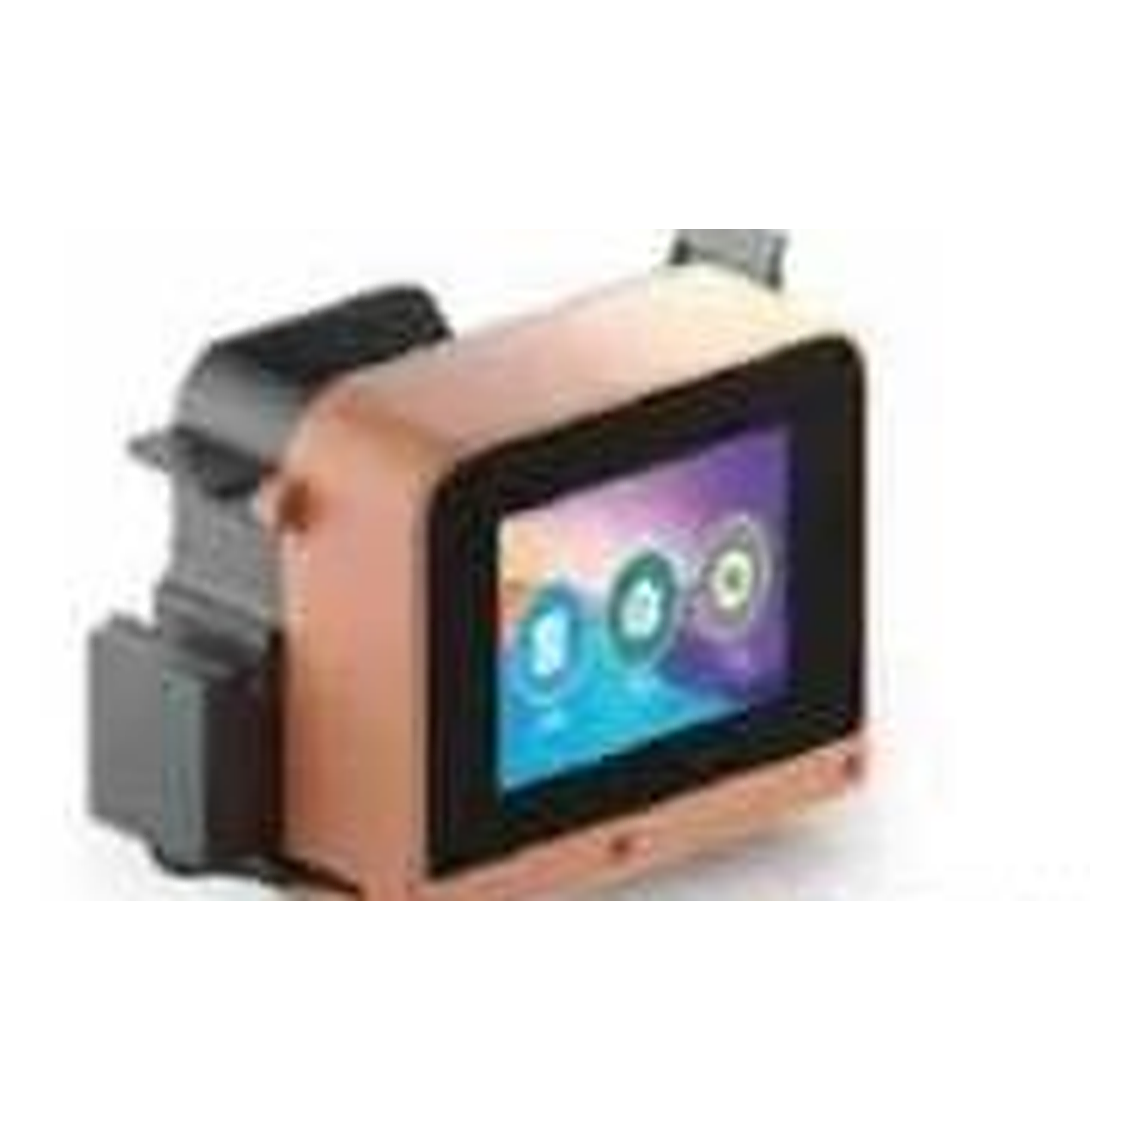
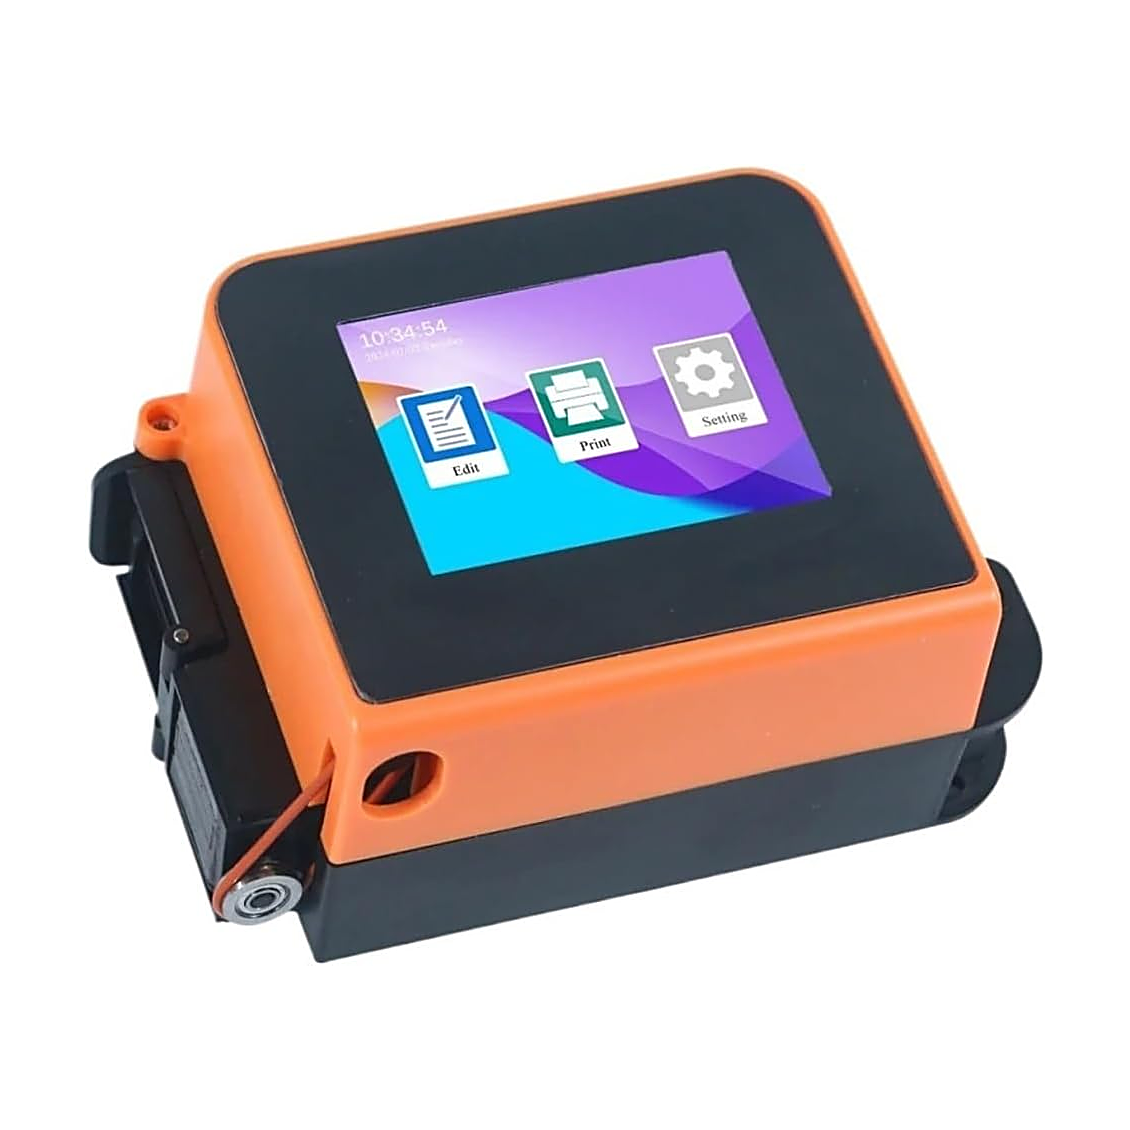
Top up galleries to 6 images: FH-500A, MY-300 II, FH-M3S, T-S, A9, P500, T10-Plus, T10 Plus-2, F-11; replace FH-M3S and T-S heroes; remove laser section from supplier request

diff --git a/src/data/products.ts b/src/data/products.ts
@@ -172,8 +172,8 @@ export const products: Product[] = [
   {
     slug: 'a9-handheld-inkjet-printer', model: 'A9/A9S', name: 'A9 Handheld Thermal Inkjet Printer', type: 'Handheld thermal inkjet printer', category: 'inkjet-printers', parentCategory: 'inkjet-printers', subcategory: 'inkjet', useCategory: 'inkjet-standalone', price: 255, badge: '5-inch screen',
     hero: '/assets/products/a9-handheld-inkjet-printer/hero.png',
-    gallery: ['/assets/products/a9-handheld-inkjet-printer/hero.png', '/assets/products/a9-handheld-inkjet-printer/detail-1.png', '/assets/products/a9-handheld-inkjet-printer/detail-2.png', '/assets/products/a9-handheld-inkjet-printer/detail-3.png', '/assets/products/print-samples/tij-carton-print.png'],
-    detailGallery: ['/assets/products/a9-handheld-inkjet-printer/hero.png', '/assets/products/a9-handheld-inkjet-printer/detail-1.png', '/assets/products/a9-handheld-inkjet-printer/detail-2.png', '/assets/products/a9-handheld-inkjet-printer/detail-3.png', '/assets/products/print-samples/tij-carton-print.png'],
+    gallery: ['/assets/products/a9-handheld-inkjet-printer/hero.png', '/assets/products/a9-handheld-inkjet-printer/detail-1.png', '/assets/products/a9-handheld-inkjet-printer/detail-2.png', '/assets/products/a9-handheld-inkjet-printer/detail-3.png', '/assets/products/a9-handheld-inkjet-printer/detail-4.png', '/assets/products/print-samples/tij-carton-print.png'],
+    detailGallery: ['/assets/products/a9-handheld-inkjet-printer/hero.png', '/assets/products/a9-handheld-inkjet-printer/detail-1.png', '/assets/products/a9-handheld-inkjet-printer/detail-2.png', '/assets/products/a9-handheld-inkjet-printer/detail-3.png', '/assets/products/a9-handheld-inkjet-printer/detail-4.png', '/assets/products/print-samples/tij-carton-print.png'],
     description: 'A handheld thermal inkjet printer with a large 5-inch touchscreen and ABS shell for date, batch, barcode and QR coding on cartons, packaging and industrial parts.',
     longDescription: 'The A9 is a handheld thermal inkjet (TIJ) printer with a large 5-inch touchscreen and ABS shell. It prints dates, batch numbers, barcodes and QR codes on cartons, packaging and industrial parts, using quick-dry TIJ cartridges. One ink cartridge is included per printer.',
     applications: 'Cartons · Plastic · Metal · Glass · Wood · Packaging bags',
@@ -183,8 +183,8 @@ export const products: Product[] = [
   {
     slug: 'p500-handheld-inkjet-printer', model: 'P500/P500S', name: 'P500 Two-Head Handheld Thermal Inkjet Printer', type: 'Two-head handheld thermal inkjet printer', category: 'inkjet-printers', parentCategory: 'inkjet-printers', subcategory: 'inkjet', useCategory: 'inkjet-standalone', price: 337, badge: 'Two heads',
     hero: '/assets/products/p500-handheld-inkjet-printer/hero.png',
-    gallery: ['/assets/products/p500-handheld-inkjet-printer/hero.png', '/assets/products/p500-handheld-inkjet-printer/detail-1.png', '/assets/products/p500-handheld-inkjet-printer/detail-3.png', '/assets/products/p500-handheld-inkjet-printer/detail-4.png', '/assets/products/print-samples/tij-carton-print.png'],
-    detailGallery: ['/assets/products/p500-handheld-inkjet-printer/hero.png', '/assets/products/p500-handheld-inkjet-printer/detail-1.png', '/assets/products/p500-handheld-inkjet-printer/detail-3.png', '/assets/products/p500-handheld-inkjet-printer/detail-4.png', '/assets/products/print-samples/tij-carton-print.png'],
+    gallery: ['/assets/products/p500-handheld-inkjet-printer/hero.png', '/assets/products/p500-handheld-inkjet-printer/detail-1.png', '/assets/products/p500-handheld-inkjet-printer/detail-2.png', '/assets/products/p500-handheld-inkjet-printer/detail-3.png', '/assets/products/p500-handheld-inkjet-printer/detail-4.png', '/assets/products/print-samples/tij-carton-print.png'],
+    detailGallery: ['/assets/products/p500-handheld-inkjet-printer/hero.png', '/assets/products/p500-handheld-inkjet-printer/detail-1.png', '/assets/products/p500-handheld-inkjet-printer/detail-2.png', '/assets/products/p500-handheld-inkjet-printer/detail-3.png', '/assets/products/p500-handheld-inkjet-printer/detail-4.png', '/assets/products/print-samples/tij-carton-print.png'],
     description: 'A two-head handheld thermal inkjet printer that prints up to 25.4 mm high in one pass — large dates, batch codes, logos and barcodes on cartons and large packaging.',
     longDescription: 'The P500 is a two-head handheld thermal inkjet (TIJ) printer that prints up to 25.4 mm high in a single pass, for large dates, batch codes, logos and barcodes on cartons and large packaging. Two ink cartridges included — one per print head.',
     applications: 'Cartons · Large packaging · Wood · Metal · Plastic',
@@ -374,8 +374,8 @@ export const products: Product[] = [
   {
     slug: 't10-plus-online-inkjet-printer', model: 'T10-Plus/T10S-Plus', name: 'T10-Plus Online Thermal Inkjet Printer', type: 'Online thermal inkjet printer', category: 'inkjet-printers', parentCategory: 'inkjet-printers', subcategory: 'inkjet', useCategory: 'inkjet-packaging-line', price: 250, badge: 'Metal cover · 7-inch',
     hero: '/assets/products/t10-plus-online-inkjet-printer/hero.png',
-    gallery: ['/assets/products/t10-plus-online-inkjet-printer/hero.png', '/assets/products/print-samples/tij-cartridge-42ml.png', '/assets/products/print-samples/tij-carton-print.png', '/assets/products/t10-plus-online-inkjet-printer/detail-2.png', '/assets/products/t10-plus-online-inkjet-printer/detail-3.png'],
-    detailGallery: ['/assets/products/t10-plus-online-inkjet-printer/hero.png', '/assets/products/print-samples/tij-cartridge-42ml.png', '/assets/products/print-samples/tij-carton-print.png', '/assets/products/t10-plus-online-inkjet-printer/detail-2.png', '/assets/products/t10-plus-online-inkjet-printer/detail-3.png'],
+    gallery: ['/assets/products/t10-plus-online-inkjet-printer/hero.png', '/assets/products/print-samples/tij-cartridge-42ml.png', '/assets/products/print-samples/tij-carton-print.png', '/assets/products/t10-plus-online-inkjet-printer/detail-2.png', '/assets/products/t10-plus-online-inkjet-printer/detail-3.png', '/assets/products/t10-plus-online-inkjet-printer/detail-4.png'],
+    detailGallery: ['/assets/products/t10-plus-online-inkjet-printer/hero.png', '/assets/products/print-samples/tij-cartridge-42ml.png', '/assets/products/print-samples/tij-carton-print.png', '/assets/products/t10-plus-online-inkjet-printer/detail-2.png', '/assets/products/t10-plus-online-inkjet-printer/detail-3.png', '/assets/products/t10-plus-online-inkjet-printer/detail-4.png'],
     description: 'An online thermal inkjet printer with a metal cover and a large 7-inch touchscreen for production lines — date, batch, barcode and QR coding triggered by photoelectric sensor as products pass.',
     longDescription: 'The T10-Plus is an online thermal inkjet (TIJ) printer with a metal cover and a large 7-inch touchscreen for production lines. Compared with the T10-1, which has an aluminum cover, the T10-Plus uses a heavier metal cover. A photoelectric sensor triggers date, batch, barcode and QR coding as products pass under the print head. One ink cartridge is included per printer.',
     applications: 'Production lines · Cartons · Bottles · Pipes · Cables · Packaging lines',
@@ -385,8 +385,8 @@ export const products: Product[] = [
   {
     slug: 't10-plus-2-online-inkjet-printer', model: 'T10 Plus-2/T10S Plus-2', name: 'T10 Plus-2 Two-Head Online Thermal Inkjet Printer', type: 'Two-head online thermal inkjet printer', category: 'inkjet-printers', parentCategory: 'inkjet-printers', subcategory: 'inkjet', useCategory: 'inkjet-packaging-line', price: 430, badge: 'Two heads · Metal cover',
     hero: '/assets/products/t10-plus-2-online-inkjet-printer/hero.png',
-    gallery: ['/assets/products/t10-plus-2-online-inkjet-printer/hero.png', '/assets/products/t10-plus-2-online-inkjet-printer/detail-1.png', '/assets/products/print-samples/tij-cartridge-42ml.png', '/assets/products/print-samples/tij-carton-print.png', '/assets/products/t10-plus-2-online-inkjet-printer/detail-2.png'],
-    detailGallery: ['/assets/products/t10-plus-2-online-inkjet-printer/hero.png', '/assets/products/t10-plus-2-online-inkjet-printer/detail-1.png', '/assets/products/print-samples/tij-cartridge-42ml.png', '/assets/products/print-samples/tij-carton-print.png', '/assets/products/t10-plus-2-online-inkjet-printer/detail-2.png'],
+    gallery: ['/assets/products/t10-plus-2-online-inkjet-printer/hero.png', '/assets/products/t10-plus-2-online-inkjet-printer/detail-1.png', '/assets/products/print-samples/tij-cartridge-42ml.png', '/assets/products/print-samples/tij-carton-print.png', '/assets/products/t10-plus-2-online-inkjet-printer/detail-2.png', '/assets/products/t10-plus-2-online-inkjet-printer/detail-3.png'],
+    detailGallery: ['/assets/products/t10-plus-2-online-inkjet-printer/hero.png', '/assets/products/t10-plus-2-online-inkjet-printer/detail-1.png', '/assets/products/print-samples/tij-cartridge-42ml.png', '/assets/products/print-samples/tij-carton-print.png', '/assets/products/t10-plus-2-online-inkjet-printer/detail-2.png', '/assets/products/t10-plus-2-online-inkjet-printer/detail-3.png'],
     description: 'A two-head online thermal inkjet printer with a metal cover and a 7-inch touchscreen — up to 25.4 mm print height in one pass on production lines.',
     longDescription: 'The T10 Plus-2 is a two-head online thermal inkjet (TIJ) printer with a metal cover and a 7-inch touchscreen. Two print heads cover up to 25.4 mm print height in one pass on production lines. Compared with the T10-2, which has an aluminum cover, the T10 Plus-2 uses a heavier metal cover. Two ink cartridges included — one per print head.',
     applications: 'Production lines · Cartons · Large packaging · Bottles · Pipes',
@@ -396,8 +396,8 @@ export const products: Product[] = [
   {
     slug: 'f-11-feeding-inkjet-printer', model: 'F-11/F-11S', name: 'F-11 Feeding Inkjet Printer', type: 'Feeding thermal inkjet printer', category: 'inkjet-printers', parentCategory: 'inkjet-printers', subcategory: 'inkjet', useCategory: 'inkjet-packaging-line', price: 605, badge: 'With feeder',
     hero: '/assets/products/f-11-feeding-inkjet-printer/hero.png',
-    gallery: ['/assets/products/f-11-feeding-inkjet-printer/hero.png', '/assets/products/f-11-feeding-inkjet-printer/detail-1.png', '/assets/products/print-samples/tij-cartridge-42ml.png', '/assets/products/print-samples/tij-carton-print.png', '/assets/products/f-11-feeding-inkjet-printer/detail-2.png'],
-    detailGallery: ['/assets/products/f-11-feeding-inkjet-printer/hero.png', '/assets/products/f-11-feeding-inkjet-printer/detail-1.png', '/assets/products/print-samples/tij-cartridge-42ml.png', '/assets/products/print-samples/tij-carton-print.png', '/assets/products/f-11-feeding-inkjet-printer/detail-2.png'],
+    gallery: ['/assets/products/f-11-feeding-inkjet-printer/hero.png', '/assets/products/f-11-feeding-inkjet-printer/detail-1.png', '/assets/products/print-samples/tij-cartridge-42ml.png', '/assets/products/print-samples/tij-carton-print.png', '/assets/products/f-11-feeding-inkjet-printer/detail-2.png', '/assets/products/f-11-feeding-inkjet-printer/detail-3.png'],
+    detailGallery: ['/assets/products/f-11-feeding-inkjet-printer/hero.png', '/assets/products/f-11-feeding-inkjet-printer/detail-1.png', '/assets/products/print-samples/tij-cartridge-42ml.png', '/assets/products/print-samples/tij-carton-print.png', '/assets/products/f-11-feeding-inkjet-printer/detail-2.png', '/assets/products/f-11-feeding-inkjet-printer/detail-3.png'],
     description: 'A feeding inkjet printer — an integrated feeder moves flat products under the print head for automatic date, batch, barcode and QR coding on small production lines.',
     longDescription: 'The F-11 is a feeding thermal inkjet (TIJ) printer with an integrated feeder and a 4.3-inch touchscreen. The feeder moves flat products under the print head for automatic date, batch, barcode and QR coding, without a separate conveyor. One ink cartridge is included per printer.',
     applications: 'Small production lines · Cartons · Labels · Bags · Flat products',
@@ -407,8 +407,8 @@ export const products: Product[] = [
   {
     slug: 'my-300-ii', model: 'MY-300 II', name: 'MY-300 II Steel Wheel Carton Printer', type: 'Steel wheel carton printer', category: 'ink-wheel-coders', parentCategory: 'ink-wheel-coders', subcategory: 'ink roller', useCategory: 'ink-roller-standalone', price: 507, badge: 'Auto-feed cartons',
     hero: '/assets/products/my-300-ii/hero.png',
-    gallery: ['/assets/products/my-300-ii/hero.png', '/assets/products/my-300-ii/detail-1.png', '/assets/products/print-samples/ink-roll-carton-print.png'],
-    detailGallery: ['/assets/products/my-300-ii/hero.png', '/assets/products/my-300-ii/detail-1.png', '/assets/products/print-samples/ink-roll-carton-print.png'],
+    gallery: ['/assets/products/my-300-ii/hero.png', '/assets/products/my-300-ii/detail-1.png', '/assets/products/print-samples/ink-roll-carton-print.png', '/assets/products/my-300-ii/detail-2.png', '/assets/products/my-300-ii/detail-3.png', '/assets/products/my-300-ii/detail-4.png'],
+    detailGallery: ['/assets/products/my-300-ii/hero.png', '/assets/products/my-300-ii/detail-1.png', '/assets/products/print-samples/ink-roll-carton-print.png', '/assets/products/my-300-ii/detail-2.png', '/assets/products/my-300-ii/detail-3.png', '/assets/products/my-300-ii/detail-4.png'],
     description: 'An auto-feed steel wheel printer for cartons and cards — it feeds a stack of flat cartons and stamps dates and batch codes with a steel print wheel, using a solid ink roll or dry embossing.',
     longDescription: 'The MY-300 II is an automatic steel wheel printer for flat cartons and cards (MY-300 / MY-300A family). It feeds a stack of cartons and stamps the date and batch code with a steel print wheel, using either a solid ink roll or dry embossing. It is a different machine from the MY-380F solid ink roll coder, which has no auto-feed tray.',
     applications: 'Cartons · Cards · Flat packaging · Paper boxes',
@@ -418,8 +418,8 @@ export const products: Product[] = [
   {
     slug: 'fh-m3s', model: 'FH-M3S', name: 'FH-M3S Touchscreen Handheld Inkjet Printer', type: 'Touchscreen handheld inkjet printer', category: 'inkjet-printers', parentCategory: 'inkjet-printers', subcategory: 'inkjet', useCategory: 'inkjet-standalone', price: 0, priceLabel: 'Quote on request', priceUnit: 'USD / unit', badge: 'Touchscreen · Metal body',
     hero: '/assets/products/fh-m3s/hero.png',
-    gallery: ['/assets/products/fh-m3s/hero.png', '/assets/products/print-samples/tij-cartridge-42ml.png', '/assets/products/print-samples/tij-carton-print.png'],
-    detailGallery: ['/assets/products/fh-m3s/hero.png', '/assets/products/print-samples/tij-cartridge-42ml.png', '/assets/products/print-samples/tij-carton-print.png'],
+    gallery: ['/assets/products/fh-m3s/hero.png', '/assets/products/fh-m3s/detail-1.png', '/assets/products/fh-m3s/detail-2.png', '/assets/products/fh-m3s/detail-3.png', '/assets/products/fh-m3s/detail-4.png', '/assets/products/fh-m3s/detail-5.png'],
+    detailGallery: ['/assets/products/fh-m3s/hero.png', '/assets/products/fh-m3s/detail-1.png', '/assets/products/fh-m3s/detail-2.png', '/assets/products/fh-m3s/detail-3.png', '/assets/products/fh-m3s/detail-4.png', '/assets/products/fh-m3s/detail-5.png'],
     description: 'A touchscreen handheld thermal inkjet printer with a metal body and a 4.3-inch colour touchscreen for date, batch, barcode and QR coding on cartons, metal, plastic and glass. Price on request.',
     longDescription: 'The FH-M3S is a touchscreen handheld thermal inkjet (TIJ) printer with a metal body and a 4.3-inch colour touchscreen, on the M3S handheld TIJ platform (HP TIJ 2.5, 42 ml cartridge, 300 dpi, up to 70 m/min). It is a different handheld from the A-series: metal body, 300 dpi only, and up to 6 print lines. Price on request — send your requirements for a direct quotation. One ink cartridge is included per printer.',
     applications: 'Cartons · Metal · Plastic · Glass · Wood · Pipes',
@@ -430,8 +430,8 @@ export const products: Product[] = [
   {
     slug: 'fh-500a', model: 'FH-500A', name: 'FH-500A Carton Printing Machine', type: 'Carton printing machine', category: 'ink-wheel-coders', parentCategory: 'ink-wheel-coders', subcategory: 'ink roller', useCategory: 'ink-roller-standalone', price: 0, priceLabel: 'Quote on request', priceUnit: 'USD / unit', badge: 'Quote on request',
     hero: '/assets/products/fh-500a/hero.png',
-    gallery: ['/assets/products/fh-500a/hero.png'],
-    detailGallery: ['/assets/products/fh-500a/hero.png'],
+    gallery: ['/assets/products/fh-500a/hero.png', '/assets/products/fh-500a/detail-1.png', '/assets/products/fh-500a/detail-2.png', '/assets/products/fh-500a/detail-3.png', '/assets/products/fh-500a/detail-4.png', '/assets/products/fh-500a/detail-5.png'],
+    detailGallery: ['/assets/products/fh-500a/hero.png', '/assets/products/fh-500a/detail-1.png', '/assets/products/fh-500a/detail-2.png', '/assets/products/fh-500a/detail-3.png', '/assets/products/fh-500a/detail-4.png', '/assets/products/fh-500a/detail-5.png'],
     description: 'A carton printing machine from the Feihuang catalog for printing on cartons. Specifications and price are confirmed with the factory before ordering — ask us for a quote.',
     longDescription: 'The FH-500A is a carton printing machine listed in the Feihuang catalog. No specification table or price is published for this model, so specifications and price are confirmed with the factory for each order. Send your carton size, print content and quantity for a direct quotation.',
     applications: 'Cartons · Paper boxes',
@@ -441,8 +441,8 @@ export const products: Product[] = [
   {
     slug: 't-s-handheld-inkjet-printer', model: 'T-S', name: 'T-S Handheld TIJ Inkjet Printer', type: 'Mini handheld thermal inkjet printer', category: 'inkjet-printers', parentCategory: 'inkjet-printers', subcategory: 'inkjet', useCategory: 'inkjet-standalone', price: 0, priceLabel: 'Quote on request', priceUnit: 'USD / unit', badge: 'Mini · 12.7 mm',
     hero: '/assets/products/t-s-handheld-inkjet-printer/hero.png',
-    gallery: ['/assets/products/t-s-handheld-inkjet-printer/hero.png', '/assets/products/t-s-handheld-inkjet-printer/detail-1.png', '/assets/products/t-s-handheld-inkjet-printer/detail-2.png', '/assets/products/t-s-handheld-inkjet-printer/detail-3.png', '/assets/products/t-s-handheld-inkjet-printer/detail-4.png'],
-    detailGallery: ['/assets/products/t-s-handheld-inkjet-printer/hero.png', '/assets/products/t-s-handheld-inkjet-printer/detail-1.png', '/assets/products/t-s-handheld-inkjet-printer/detail-2.png', '/assets/products/t-s-handheld-inkjet-printer/detail-3.png', '/assets/products/t-s-handheld-inkjet-printer/detail-4.png'],
+    gallery: ['/assets/products/t-s-handheld-inkjet-printer/hero.png', '/assets/products/t-s-handheld-inkjet-printer/detail-1.png', '/assets/products/t-s-handheld-inkjet-printer/detail-2.png', '/assets/products/t-s-handheld-inkjet-printer/detail-3.png', '/assets/products/t-s-handheld-inkjet-printer/detail-4.png', '/assets/products/t-s-handheld-inkjet-printer/detail-5.png'],
+    detailGallery: ['/assets/products/t-s-handheld-inkjet-printer/hero.png', '/assets/products/t-s-handheld-inkjet-printer/detail-1.png', '/assets/products/t-s-handheld-inkjet-printer/detail-2.png', '/assets/products/t-s-handheld-inkjet-printer/detail-3.png', '/assets/products/t-s-handheld-inkjet-printer/detail-4.png', '/assets/products/t-s-handheld-inkjet-printer/detail-5.png'],
     description: 'A mini handheld thermal inkjet printer with a 12.7 mm print height for quick date, batch and expiry coding on cartons, bottles and small packaging. Price on request.',
     longDescription: 'The T-S (Touch-S) is a mini handheld thermal inkjet (TIJ) printer for quick date, batch and expiry coding on cartons, bottles and small packaging. It uses a 12.7 mm HP TIJ 2.5 cartridge for clean, quick-dry print. Price on request — send your requirements for a direct quotation. One ink cartridge is included per printer.',
     applications: 'Cartons · Bottles · Small packaging · Labels',
